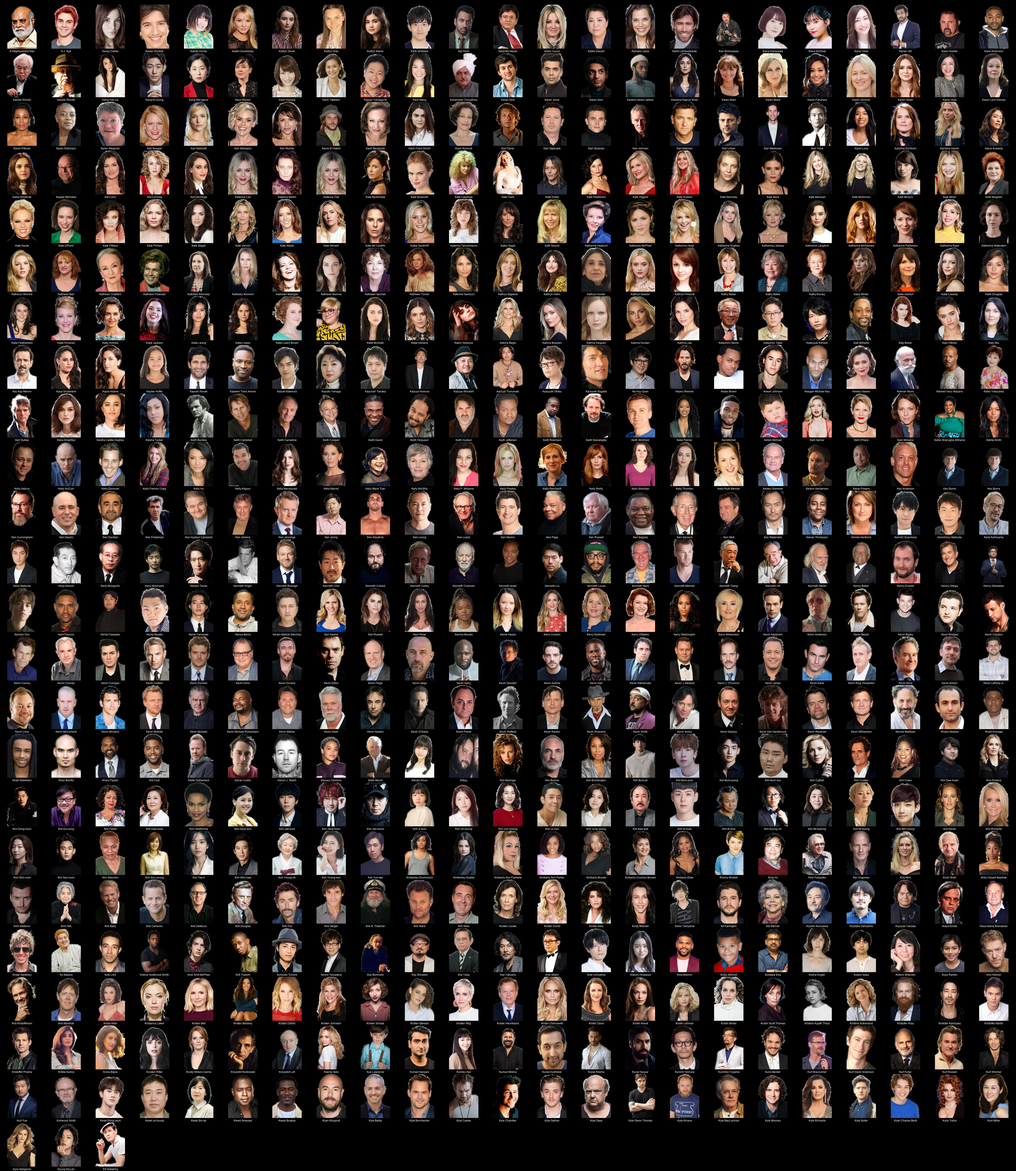
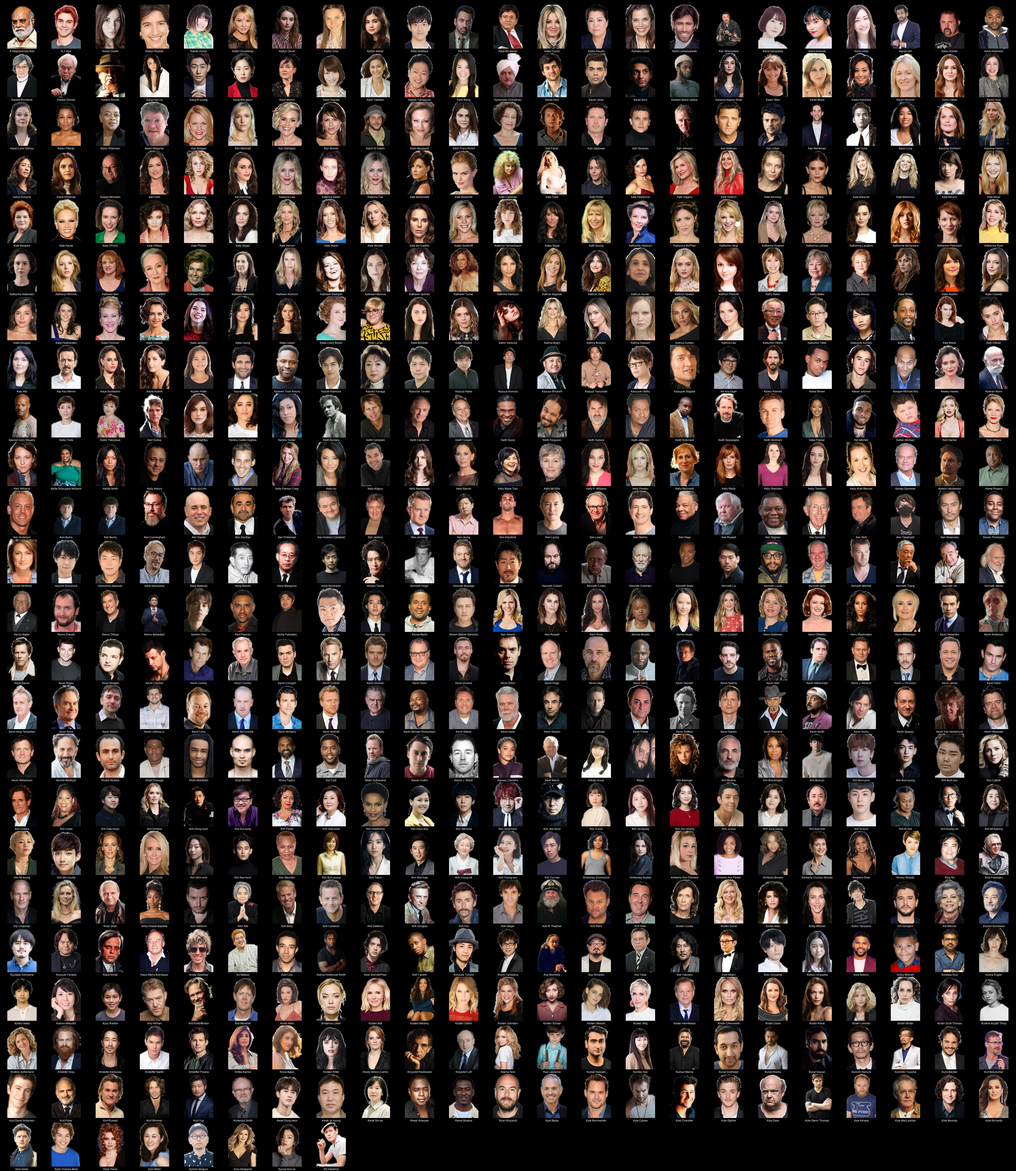
grid updates

diff --git a/J/README.md b/J/README.md
@@ -1,4 +1,4 @@
-# Kometa People Images - Transparent (transparent) - J (1341 Images)
+# Kometa People Images - Transparent (transparent) - J (1349 Images)
 ![Grid](grid.jpg)
 
 * [J'Dvonte](https://raw.githubusercontent.com/Kometa-Team/People-Images-transparent/master/J/Images/J%27Dvonte.png)
@@ -869,6 +869,7 @@
 * [John Franchi](https://raw.githubusercontent.com/Kometa-Team/People-Images-transparent/master/J/Images/John%20Franchi.png)
 * [John Francis Daley](https://raw.githubusercontent.com/Kometa-Team/People-Images-transparent/master/J/Images/John%20Francis%20Daley.png)
 * [John Frankenheimer](https://raw.githubusercontent.com/Kometa-Team/People-Images-transparent/master/J/Images/John%20Frankenheimer.png)
+* [John Fusco](https://raw.githubusercontent.com/Kometa-Team/People-Images-transparent/master/J/Images/John%20Fusco.png)
 * [John G. Avildsen](https://raw.githubusercontent.com/Kometa-Team/People-Images-transparent/master/J/Images/John%20G.%20Avildsen.png)
 * [John Gallagher Jr.](https://raw.githubusercontent.com/Kometa-Team/People-Images-transparent/master/J/Images/John%20Gallagher%20Jr..png)
 * [John Gatins](https://raw.githubusercontent.com/Kometa-Team/People-Images-transparent/master/J/Images/John%20Gatins.png)
@@ -929,6 +930,7 @@
 * [John Mulaney](https://raw.githubusercontent.com/Kometa-Team/People-Images-transparent/master/J/Images/John%20Mulaney.png)
 * [John Murray](https://raw.githubusercontent.com/Kometa-Team/People-Images-transparent/master/J/Images/John%20Murray.png)
 * [John Musker](https://raw.githubusercontent.com/Kometa-Team/People-Images-transparent/master/J/Images/John%20Musker.png)
+* [John Nettleton](https://raw.githubusercontent.com/Kometa-Team/People-Images-transparent/master/J/Images/John%20Nettleton.png)
 * [John Nicholas](https://raw.githubusercontent.com/Kometa-Team/People-Images-transparent/master/J/Images/John%20Nicholas.png)
 * [John Noble](https://raw.githubusercontent.com/Kometa-Team/People-Images-transparent/master/J/Images/John%20Noble.png)
 * [John Nolan](https://raw.githubusercontent.com/Kometa-Team/People-Images-transparent/master/J/Images/John%20Nolan.png)
@@ -955,6 +957,7 @@
 * [John Salley](https://raw.githubusercontent.com/Kometa-Team/People-Images-transparent/master/J/Images/John%20Salley.png)
 * [John Sanford Moore](https://raw.githubusercontent.com/Kometa-Team/People-Images-transparent/master/J/Images/John%20Sanford%20Moore.png)
 * [John Savage](https://raw.githubusercontent.com/Kometa-Team/People-Images-transparent/master/J/Images/John%20Savage.png)
+* [John Savident](https://raw.githubusercontent.com/Kometa-Team/People-Images-transparent/master/J/Images/John%20Savident.png)
 * [John Saxon](https://raw.githubusercontent.com/Kometa-Team/People-Images-transparent/master/J/Images/John%20Saxon.png)
 * [John Sayles](https://raw.githubusercontent.com/Kometa-Team/People-Images-transparent/master/J/Images/John%20Sayles.png)
 * [John Schlesinger](https://raw.githubusercontent.com/Kometa-Team/People-Images-transparent/master/J/Images/John%20Schlesinger.png)
@@ -1211,7 +1214,9 @@
 * [José Padilha](https://raw.githubusercontent.com/Kometa-Team/People-Images-transparent/master/J/Images/Jos%C3%A9%20Padilha.png)
 * [José Zúñiga](https://raw.githubusercontent.com/Kometa-Team/People-Images-transparent/master/J/Images/Jos%C3%A9%20Z%C3%BA%C3%B1iga.png)
 * [Joséphine de la Baume](https://raw.githubusercontent.com/Kometa-Team/People-Images-transparent/master/J/Images/Jos%C3%A9phine%20de%20la%20Baume.png)
+* [Jouji Nakata](https://raw.githubusercontent.com/Kometa-Team/People-Images-transparent/master/J/Images/Jouji%20Nakata.png)
 * [Jovan Adepo](https://raw.githubusercontent.com/Kometa-Team/People-Images-transparent/master/J/Images/Jovan%20Adepo.png)
+* [Jovi Dufren](https://raw.githubusercontent.com/Kometa-Team/People-Images-transparent/master/J/Images/Jovi%20Dufren.png)
 * [Joy Carlin](https://raw.githubusercontent.com/Kometa-Team/People-Images-transparent/master/J/Images/Joy%20Carlin.png)
 * [Joyce Giraud](https://raw.githubusercontent.com/Kometa-Team/People-Images-transparent/master/J/Images/Joyce%20Giraud.png)
 * [Joyia Fitch](https://raw.githubusercontent.com/Kometa-Team/People-Images-transparent/master/J/Images/Joyia%20Fitch.png)
@@ -1233,6 +1238,7 @@
 * [Judith Chapman](https://raw.githubusercontent.com/Kometa-Team/People-Images-transparent/master/J/Images/Judith%20Chapman.png)
 * [Judith O'Dea](https://raw.githubusercontent.com/Kometa-Team/People-Images-transparent/master/J/Images/Judith%20O%27Dea.png)
 * [Judy Davis](https://raw.githubusercontent.com/Kometa-Team/People-Images-transparent/master/J/Images/Judy%20Davis.png)
+* [Judy Freudberg](https://raw.githubusercontent.com/Kometa-Team/People-Images-transparent/master/J/Images/Judy%20Freudberg.png)
 * [Judy Greer](https://raw.githubusercontent.com/Kometa-Team/People-Images-transparent/master/J/Images/Judy%20Greer.png)
 * [Judy Kain](https://raw.githubusercontent.com/Kometa-Team/People-Images-transparent/master/J/Images/Judy%20Kain.png)
 * [Judy Marte](https://raw.githubusercontent.com/Kometa-Team/People-Images-transparent/master/J/Images/Judy%20Marte.png)
@@ -1291,6 +1297,7 @@
 * [Julius Harris](https://raw.githubusercontent.com/Kometa-Team/People-Images-transparent/master/J/Images/Julius%20Harris.png)
 * [Jullan Kindahl](https://raw.githubusercontent.com/Kometa-Team/People-Images-transparent/master/J/Images/Jullan%20Kindahl.png)
 * [Jun Fukuyama](https://raw.githubusercontent.com/Kometa-Team/People-Images-transparent/master/J/Images/Jun%20Fukuyama.png)
+* [Jun Kawagoe](https://raw.githubusercontent.com/Kometa-Team/People-Images-transparent/master/J/Images/Jun%20Kawagoe.png)
 * [Jun Kunimura](https://raw.githubusercontent.com/Kometa-Team/People-Images-transparent/master/J/Images/Jun%20Kunimura.png)
 * [June Christopher](https://raw.githubusercontent.com/Kometa-Team/People-Images-transparent/master/J/Images/June%20Christopher.png)
 * [June Diane Raphael](https://raw.githubusercontent.com/Kometa-Team/People-Images-transparent/master/J/Images/June%20Diane%20Raphael.png)
@@ -1341,4 +1348,5 @@
 * [Jördis Triebel](https://raw.githubusercontent.com/Kometa-Team/People-Images-transparent/master/J/Images/J%C3%B6rdis%20Triebel.png)
 * [Jörg Buttgereit](https://raw.githubusercontent.com/Kometa-Team/People-Images-transparent/master/J/Images/J%C3%B6rg%20Buttgereit.png)
 * [Jürgen Prochnow](https://raw.githubusercontent.com/Kometa-Team/People-Images-transparent/master/J/Images/J%C3%BCrgen%20Prochnow.png)
+* [Jürgen Vogel](https://raw.githubusercontent.com/Kometa-Team/People-Images-transparent/master/J/Images/J%C3%BCrgen%20Vogel.png)
 * [Jūzō Itami](https://raw.githubusercontent.com/Kometa-Team/People-Images-transparent/master/J/Images/J%C5%ABz%C5%8D%20Itami.png)

diff --git a/K/README.md b/K/README.md
@@ -1,4 +1,4 @@
-# Kometa People Images - Transparent (transparent) - K (532 Images)
+# Kometa People Images - Transparent (transparent) - K (537 Images)
 ![Grid](grid.jpg)
 
 * [K Raghavendra Rao](https://raw.githubusercontent.com/Kometa-Team/People-Images-transparent/master/K/Images/K%20Raghavendra%20Rao.png)
@@ -24,6 +24,7 @@
 * [Kanan Gill](https://raw.githubusercontent.com/Kometa-Team/People-Images-transparent/master/K/Images/Kanan%20Gill.png)
 * [Kane Hodder](https://raw.githubusercontent.com/Kometa-Team/People-Images-transparent/master/K/Images/Kane%20Hodder.png)
 * [Kane Robinson](https://raw.githubusercontent.com/Kometa-Team/People-Images-transparent/master/K/Images/Kane%20Robinson.png)
+* [Kaneta Kimotsuki](https://raw.githubusercontent.com/Kometa-Team/People-Images-transparent/master/K/Images/Kaneta%20Kimotsuki.png)
 * [Kaneto Shindo](https://raw.githubusercontent.com/Kometa-Team/People-Images-transparent/master/K/Images/Kaneto%20Shindo.png)
 * [Kaneto Shindō](https://raw.githubusercontent.com/Kometa-Team/People-Images-transparent/master/K/Images/Kaneto%20Shind%C5%8D.png)
 * [Kang Han-na](https://raw.githubusercontent.com/Kometa-Team/People-Images-transparent/master/K/Images/Kang%20Han-na.png)
@@ -171,6 +172,7 @@
 * [Kazuki Kitamura](https://raw.githubusercontent.com/Kometa-Team/People-Images-transparent/master/K/Images/Kazuki%20Kitamura.png)
 * [Kazuko Yanaga](https://raw.githubusercontent.com/Kometa-Team/People-Images-transparent/master/K/Images/Kazuko%20Yanaga.png)
 * [Kazunari Tanaka](https://raw.githubusercontent.com/Kometa-Team/People-Images-transparent/master/K/Images/Kazunari%20Tanaka.png)
+* [Kazuya Nakai](https://raw.githubusercontent.com/Kometa-Team/People-Images-transparent/master/K/Images/Kazuya%20Nakai.png)
 * [Kazuya Nomura](https://raw.githubusercontent.com/Kometa-Team/People-Images-transparent/master/K/Images/Kazuya%20Nomura.png)
 * [Kazuya Shiraishi](https://raw.githubusercontent.com/Kometa-Team/People-Images-transparent/master/K/Images/Kazuya%20Shiraishi.png)
 * [Kazuya Tsurumaki](https://raw.githubusercontent.com/Kometa-Team/People-Images-transparent/master/K/Images/Kazuya%20Tsurumaki.png)
@@ -184,6 +186,7 @@
 * [Keeley Hawes](https://raw.githubusercontent.com/Kometa-Team/People-Images-transparent/master/K/Images/Keeley%20Hawes.png)
 * [Keenan Wynn](https://raw.githubusercontent.com/Kometa-Team/People-Images-transparent/master/K/Images/Keenan%20Wynn.png)
 * [Keenen Ivory Wayans](https://raw.githubusercontent.com/Kometa-Team/People-Images-transparent/master/K/Images/Keenen%20Ivory%20Wayans.png)
+* [Keiko Toda](https://raw.githubusercontent.com/Kometa-Team/People-Images-transparent/master/K/Images/Keiko%20Toda.png)
 * [Keiko Yokozawa](https://raw.githubusercontent.com/Kometa-Team/People-Images-transparent/master/K/Images/Keiko%20Yokozawa.png)
 * [Keir Dullea](https://raw.githubusercontent.com/Kometa-Team/People-Images-transparent/master/K/Images/Keir%20Dullea.png)
 * [Keira Knightley](https://raw.githubusercontent.com/Kometa-Team/People-Images-transparent/master/K/Images/Keira%20Knightley.png)
@@ -248,6 +251,7 @@
 * [Ken Sagoes](https://raw.githubusercontent.com/Kometa-Team/People-Images-transparent/master/K/Images/Ken%20Sagoes.png)
 * [Ken Sansom](https://raw.githubusercontent.com/Kometa-Team/People-Images-transparent/master/K/Images/Ken%20Sansom.png)
 * [Ken Stott](https://raw.githubusercontent.com/Kometa-Team/People-Images-transparent/master/K/Images/Ken%20Stott.png)
+* [Ken Takahashi](https://raw.githubusercontent.com/Kometa-Team/People-Images-transparent/master/K/Images/Ken%20Takahashi.png)
 * [Ken Watanabe](https://raw.githubusercontent.com/Kometa-Team/People-Images-transparent/master/K/Images/Ken%20Watanabe.png)
 * [Kenan Thompson](https://raw.githubusercontent.com/Kometa-Team/People-Images-transparent/master/K/Images/Kenan%20Thompson.png)
 * [Kenda Henthorn](https://raw.githubusercontent.com/Kometa-Team/People-Images-transparent/master/K/Images/Kenda%20Henthorn.png)
@@ -530,6 +534,7 @@
 * [Kyler Charles Beck](https://raw.githubusercontent.com/Kometa-Team/People-Images-transparent/master/K/Images/Kyler%20Charles%20Beck.png)
 * [Kylie Travis](https://raw.githubusercontent.com/Kometa-Team/People-Images-transparent/master/K/Images/Kylie%20Travis.png)
 * [Kym Miller](https://raw.githubusercontent.com/Kometa-Team/People-Images-transparent/master/K/Images/Kym%20Miller.png)
+* [Kyohei Ishiguro](https://raw.githubusercontent.com/Kometa-Team/People-Images-transparent/master/K/Images/Kyohei%20Ishiguro.png)
 * [Kyra Sedgwick](https://raw.githubusercontent.com/Kometa-Team/People-Images-transparent/master/K/Images/Kyra%20Sedgwick.png)
 * [Kyung Soo-jin](https://raw.githubusercontent.com/Kometa-Team/People-Images-transparent/master/K/Images/Kyung%20Soo-jin.png)
 * [Kō Nakahira](https://raw.githubusercontent.com/Kometa-Team/People-Images-transparent/master/K/Images/K%C5%8D%20Nakahira.png)

diff --git a/L/README.md b/L/README.md
@@ -1,4 +1,4 @@
-# Kometa People Images - Transparent (transparent) - L (487 Images)
+# Kometa People Images - Transparent (transparent) - L (488 Images)
 ![Grid](grid.jpg)
 
 * [L. Q. Jones](https://raw.githubusercontent.com/Kometa-Team/People-Images-transparent/master/L/Images/L.%20Q.%20Jones.png)
@@ -237,6 +237,7 @@
 * [Lewis Tan](https://raw.githubusercontent.com/Kometa-Team/People-Images-transparent/master/L/Images/Lewis%20Tan.png)
 * [Lewis Young](https://raw.githubusercontent.com/Kometa-Team/People-Images-transparent/master/L/Images/Lewis%20Young.png)
 * [Lex Shrapnel](https://raw.githubusercontent.com/Kometa-Team/People-Images-transparent/master/L/Images/Lex%20Shrapnel.png)
+* [Lexi Perri](https://raw.githubusercontent.com/Kometa-Team/People-Images-transparent/master/L/Images/Lexi%20Perri.png)
 * [Leythum](https://raw.githubusercontent.com/Kometa-Team/People-Images-transparent/master/L/Images/Leythum.png)
 * [Li Jing](https://raw.githubusercontent.com/Kometa-Team/People-Images-transparent/master/L/Images/Li%20Jing.png)
 * [Lia McHugh](https://raw.githubusercontent.com/Kometa-Team/People-Images-transparent/master/L/Images/Lia%20McHugh.png)
